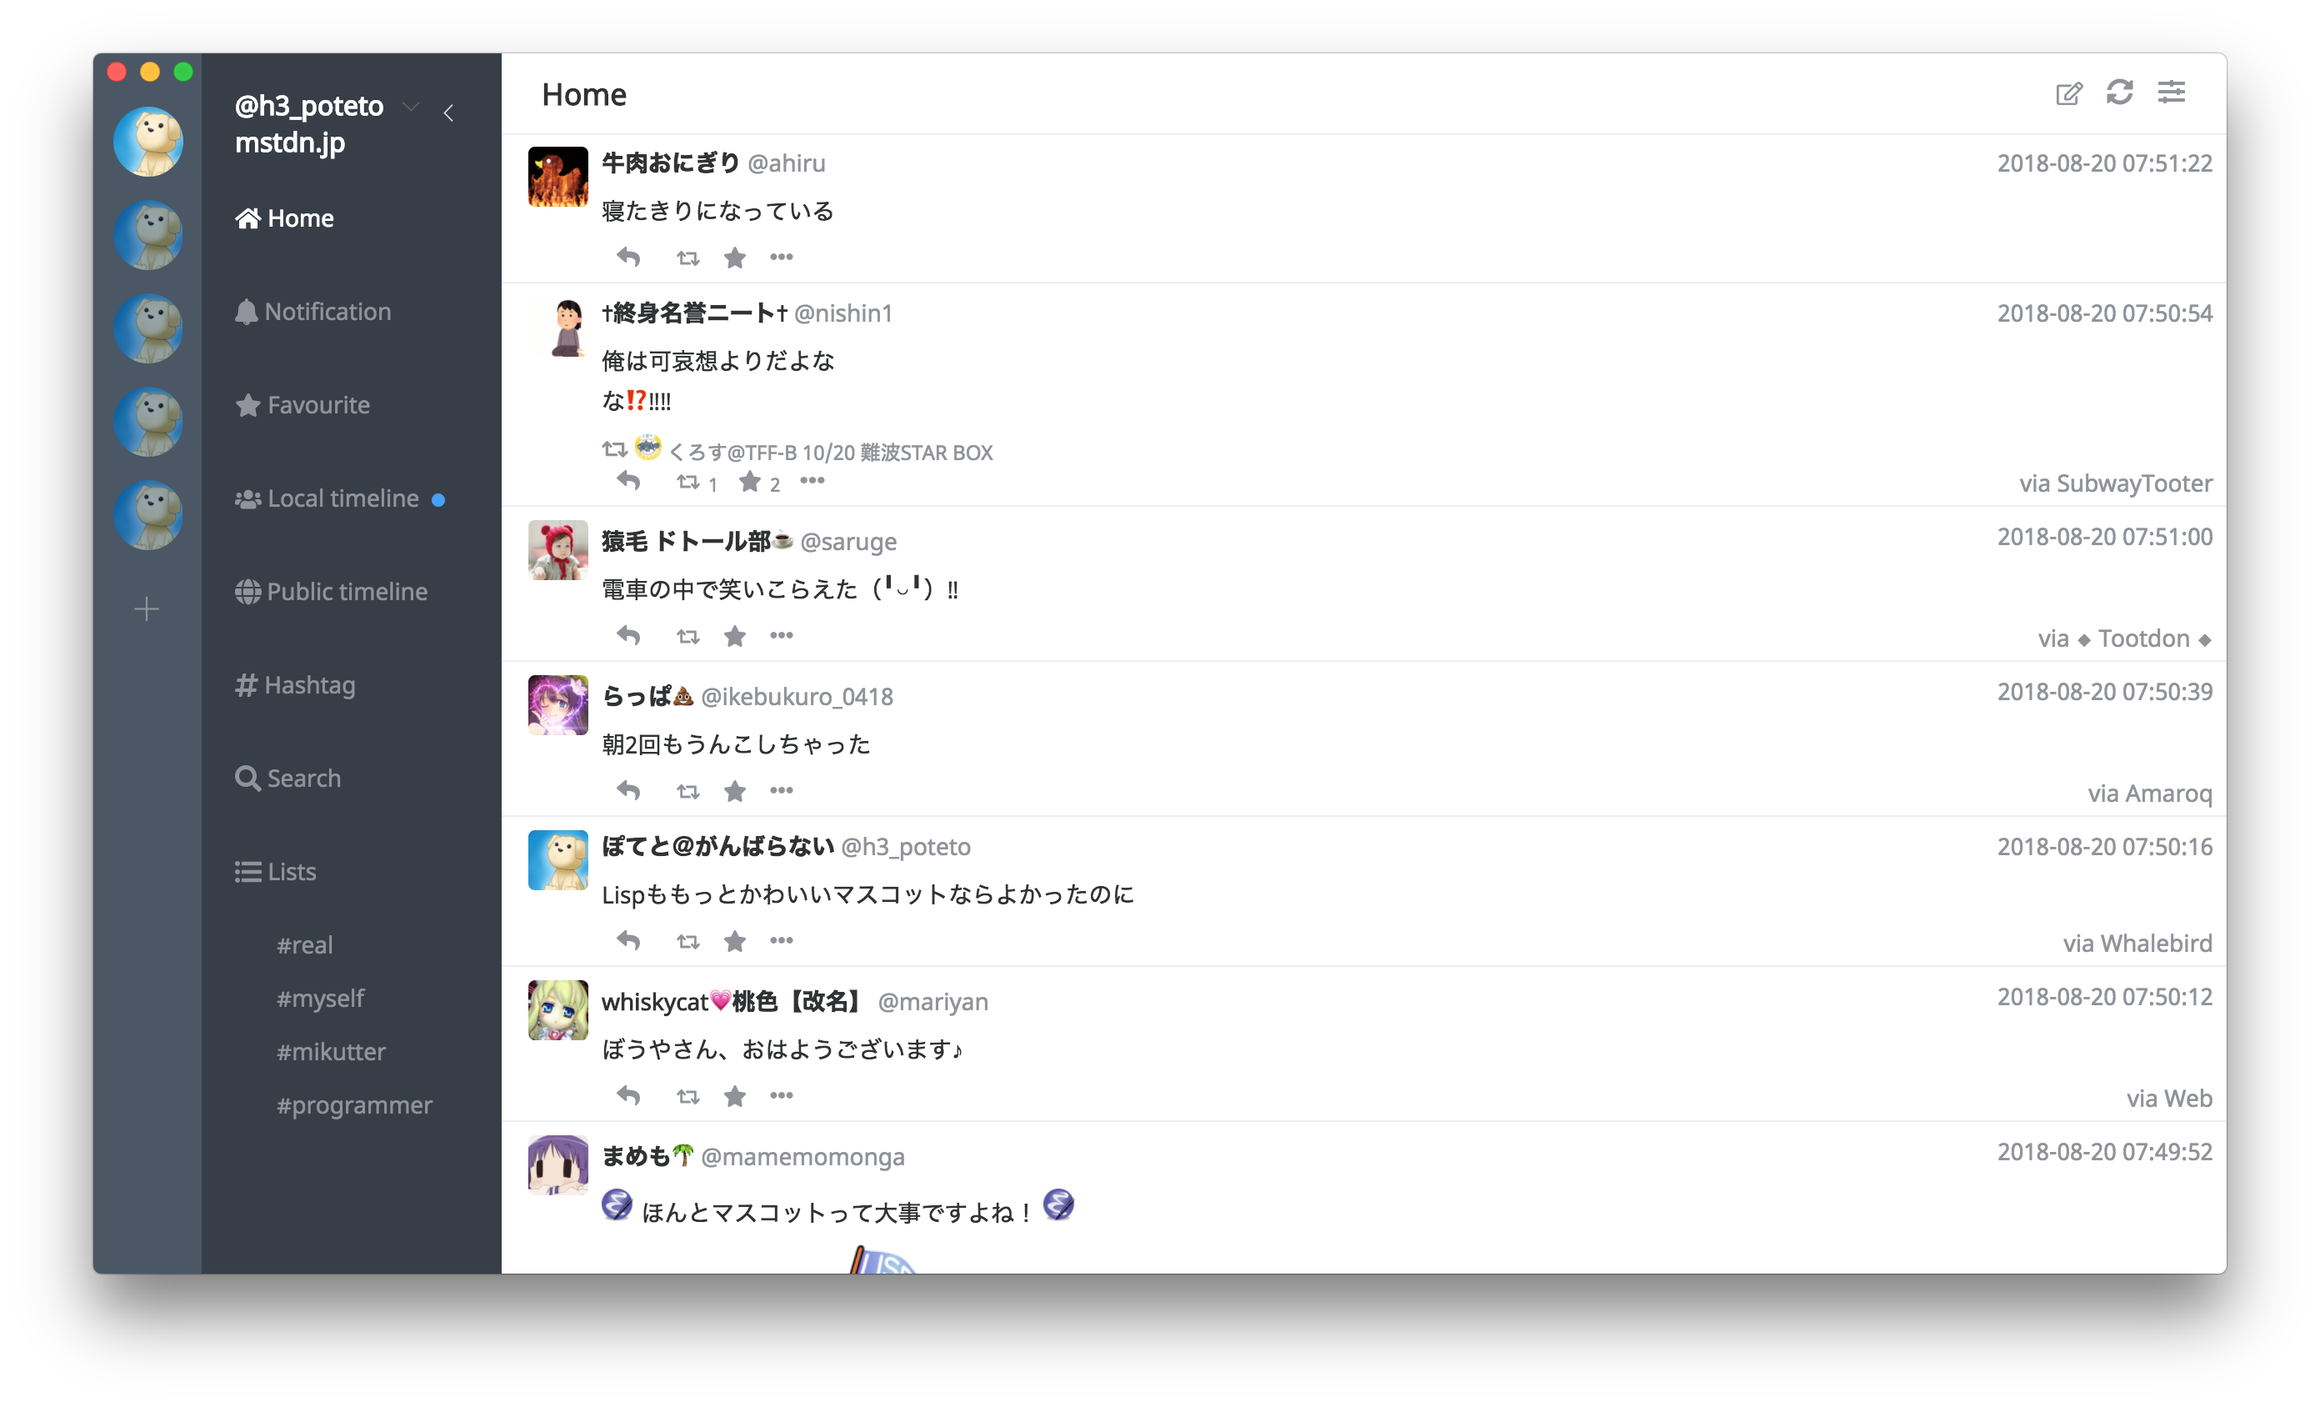
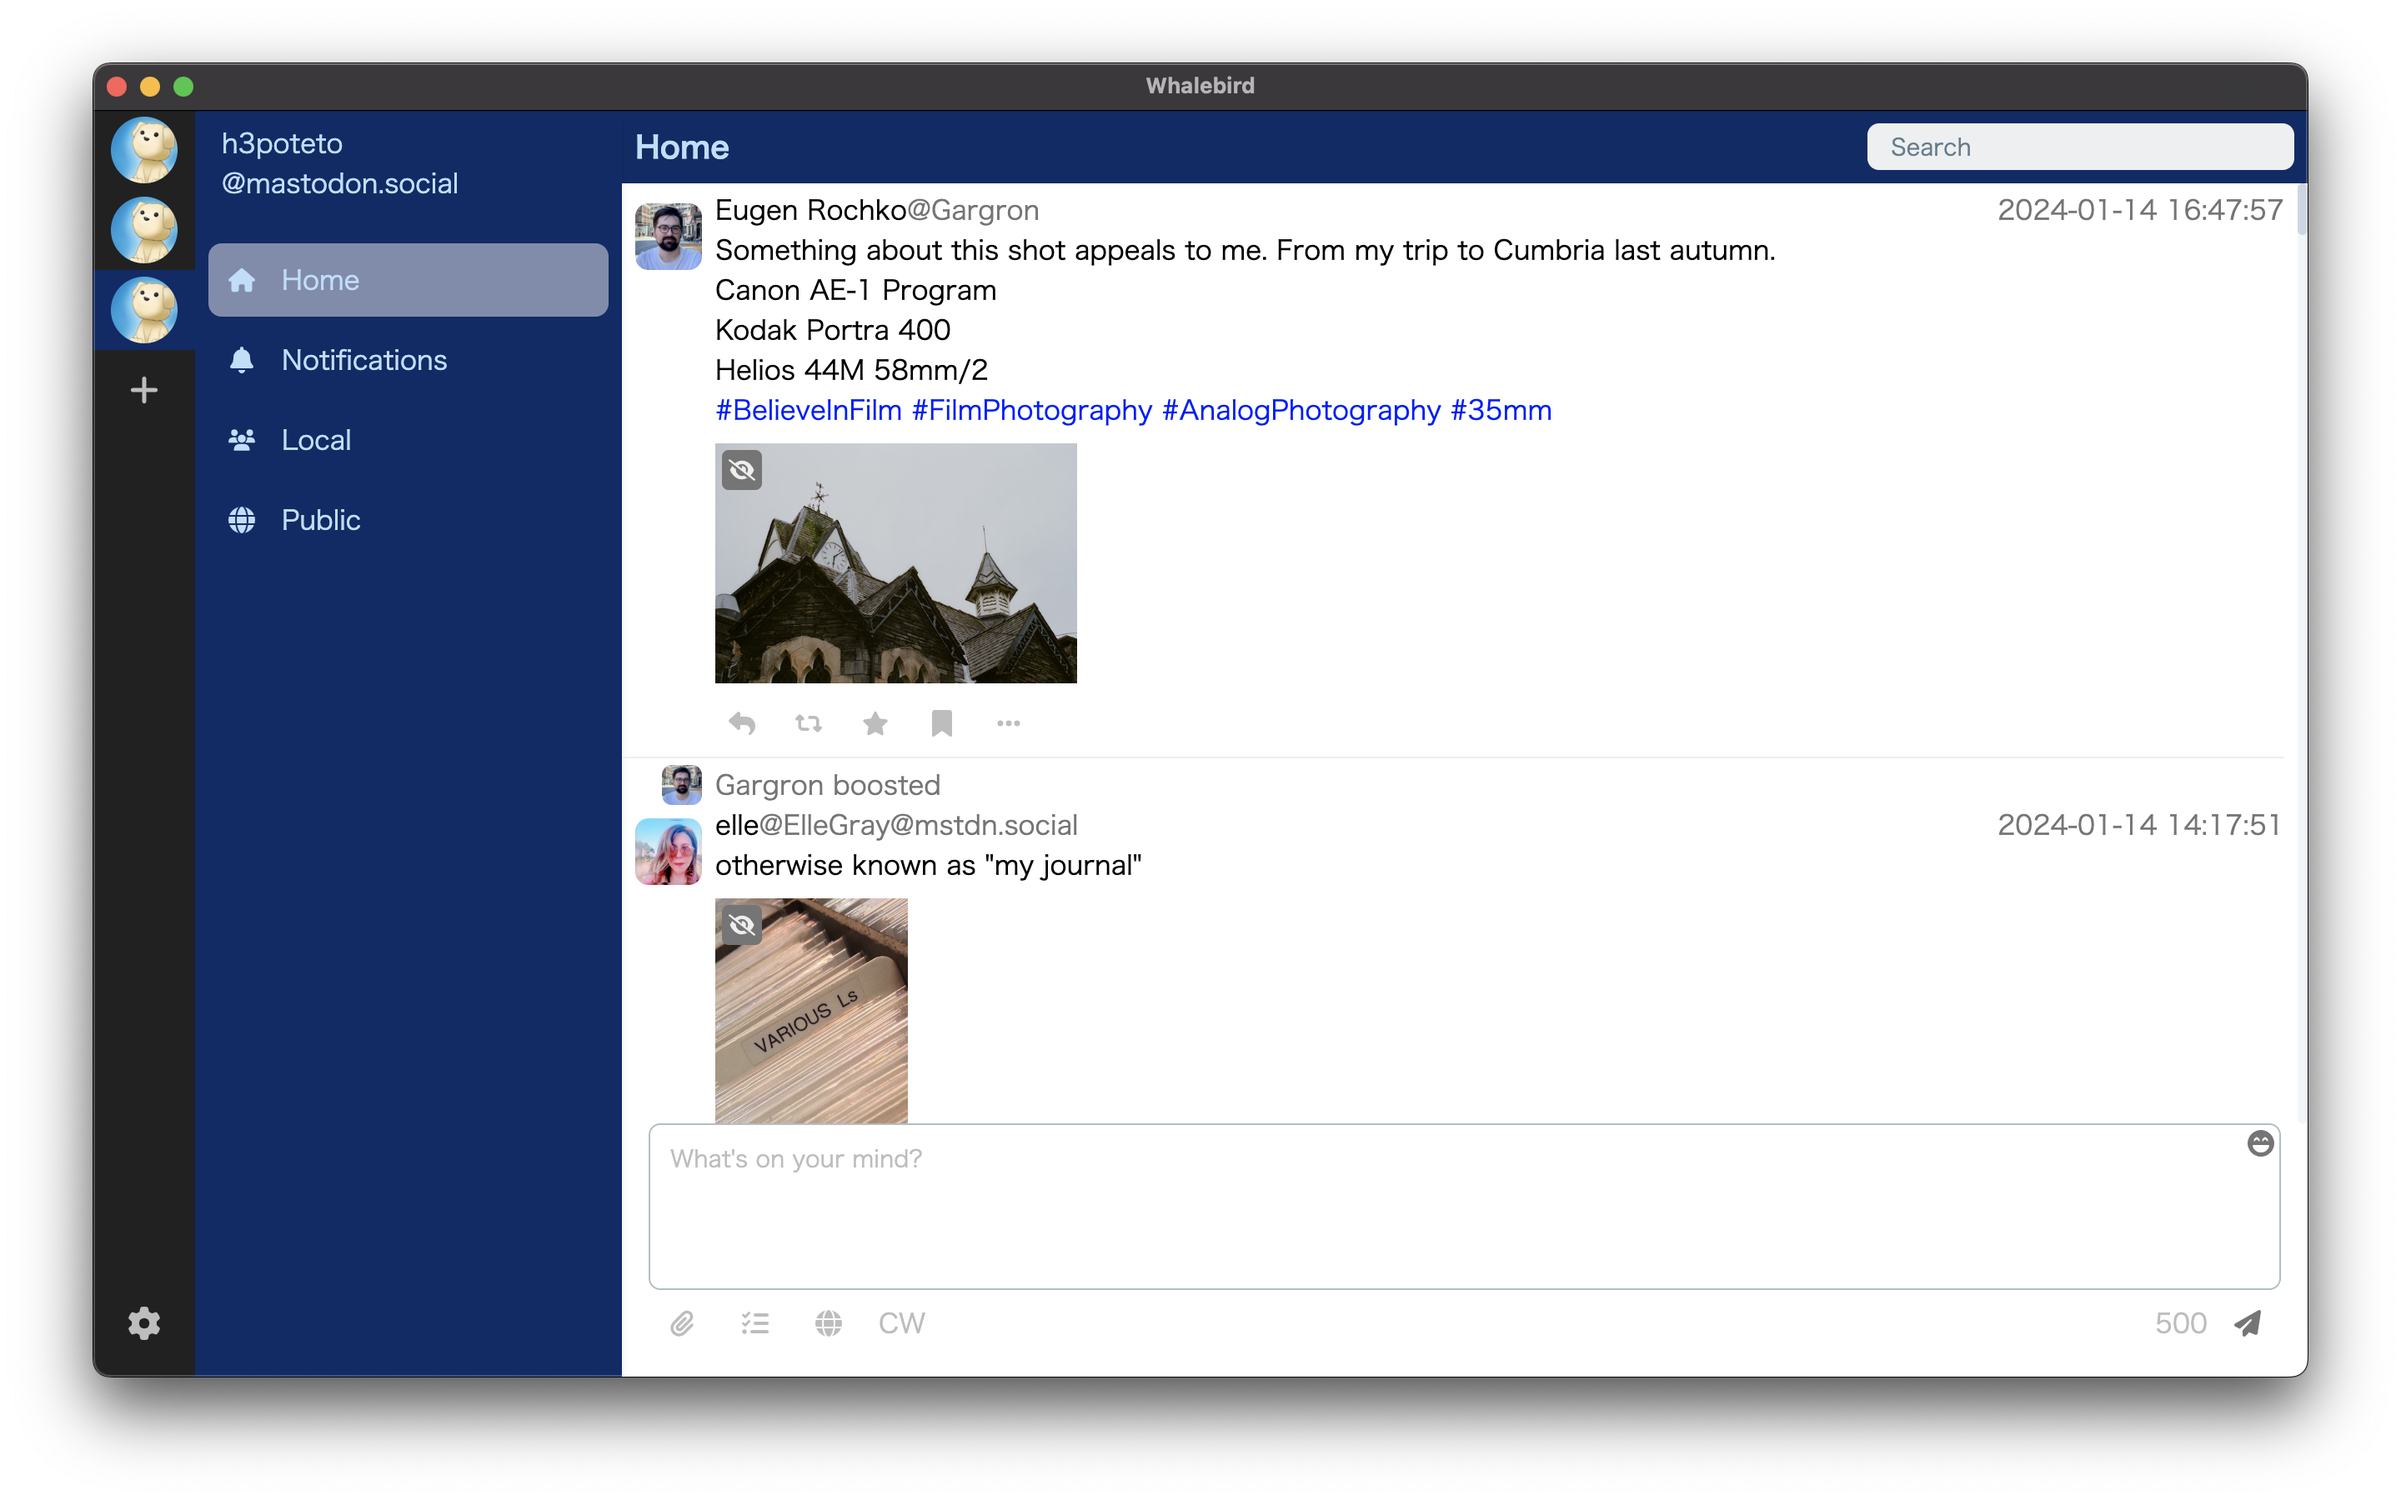
Update screenshot for whalebird 6.0.0

diff --git a/src/pages/index.tsx b/src/pages/index.tsx
@@ -8,7 +8,7 @@ import styles from '@/styles/Home.module.css'
 import Header from '@/components/Header'
 import Footer from '@/components/Footer'
 import { FontAwesomeIcon } from '@fortawesome/react-fontawesome'
-import { faBell, faComments, faKeyboard } from '@fortawesome/free-solid-svg-icons'
+import { faBell, faComments, faGlobe } from '@fortawesome/free-solid-svg-icons'
 import Image from 'next/image'
 import Link from 'next/link'
 import { useRouter } from 'next/router'
@@ -65,9 +65,9 @@ export default function Home() {
               <Col>
                 <div style={{ textAlign: 'center', padding: '4vh' }}>
                   <p style={{ fontSize: '64px' }}>
-                    <FontAwesomeIcon icon={faKeyboard} />
+                    <FontAwesomeIcon icon={faGlobe} />
                   </p>
-                  <h4>{t('index.features.many_shortcuts')}</h4>
+                  <h4>{t('index.features.many_sns')}</h4>
                 </div>
               </Col>
             </Row>
@@ -87,52 +87,19 @@ export default function Home() {
               </Col>
               <Col>
                 <div style={{ position: 'relative', width: '600px', height: '360px' }}>
-                  <Image src="/images/screenshot/tag.png" alt="List" fill style={{ objectFit: 'contain' }} />
+                  <Image src="/images/screenshot/home.png" alt="List" fill style={{ objectFit: 'contain' }} />
                 </div>
               </Col>
             </Row>
             <Row style={{ margin: '4vh 0' }}>
               <Col>
                 <div style={{ position: 'relative', width: '600px', height: '360px' }}>
-                  <Image src="/images/screenshot/home.png" alt="Home" fill style={{ objectFit: 'contain' }} />
+                  <Image src="/images/screenshot/thread.png" alt="Home" fill style={{ objectFit: 'contain' }} />
                 </div>
               </Col>
               <Col>
                 <h3>{t('index.description.home.title')}</h3>
                 <p style={{ margin: '2vh 0' }}>{t('index.description.home.body')}</p>
-              </Col>
-            </Row>
-            <Row style={{ margin: '4vh 0' }}>
-              <Col>
-                <h3>{t('index.description.jump.title')}</h3>
-                <p style={{ margin: '2vh 0' }}>{t('index.description.jump.body')}</p>
-              </Col>
-              <Col>
-                <div style={{ position: 'relative', width: '600px', height: '360px' }}>
-                  <Image src="/images/screenshot/jump.png" alt="Jump" fill style={{ objectFit: 'contain' }} />
-                </div>
-              </Col>
-            </Row>
-            <Row style={{ margin: '4vh 0' }}>
-              <Col>
-                <div style={{ position: 'relative', width: '600px', height: '360px' }}>
-                  <Image src="/images/screenshot/dark.png" alt="Dark" fill style={{ objectFit: 'contain' }} />
-                </div>
-              </Col>
-              <Col>
-                <h3>{t('index.description.theme.title')}</h3>
-                <p style={{ margin: '2vh 0' }}>{t('index.description.theme.body')}</p>
-              </Col>
-            </Row>
-            <Row style={{ margin: '4vh 0' }}>
-              <Col>
-                <h3>{t('index.description.proxy.title')}</h3>
-                <p style={{ margin: '2vh 0' }}>{t('index.description.proxy.body')}</p>
-              </Col>
-              <Col>
-                <div style={{ position: 'relative', width: '600px', height: '360px' }}>
-                  <Image src="/images/screenshot/network.png" alt="Network" fill style={{ objectFit: 'contain' }} />
-                </div>
               </Col>
             </Row>
           </Container>
